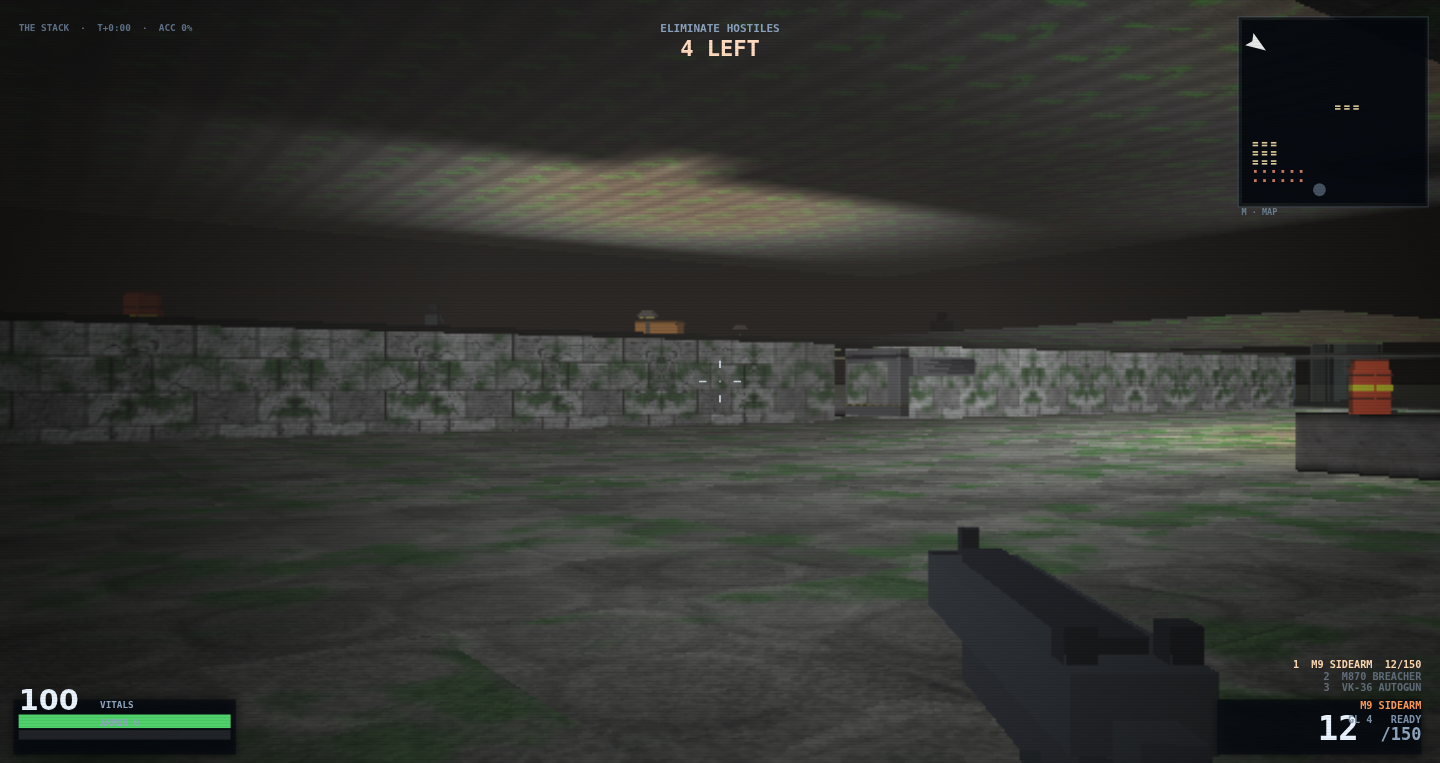
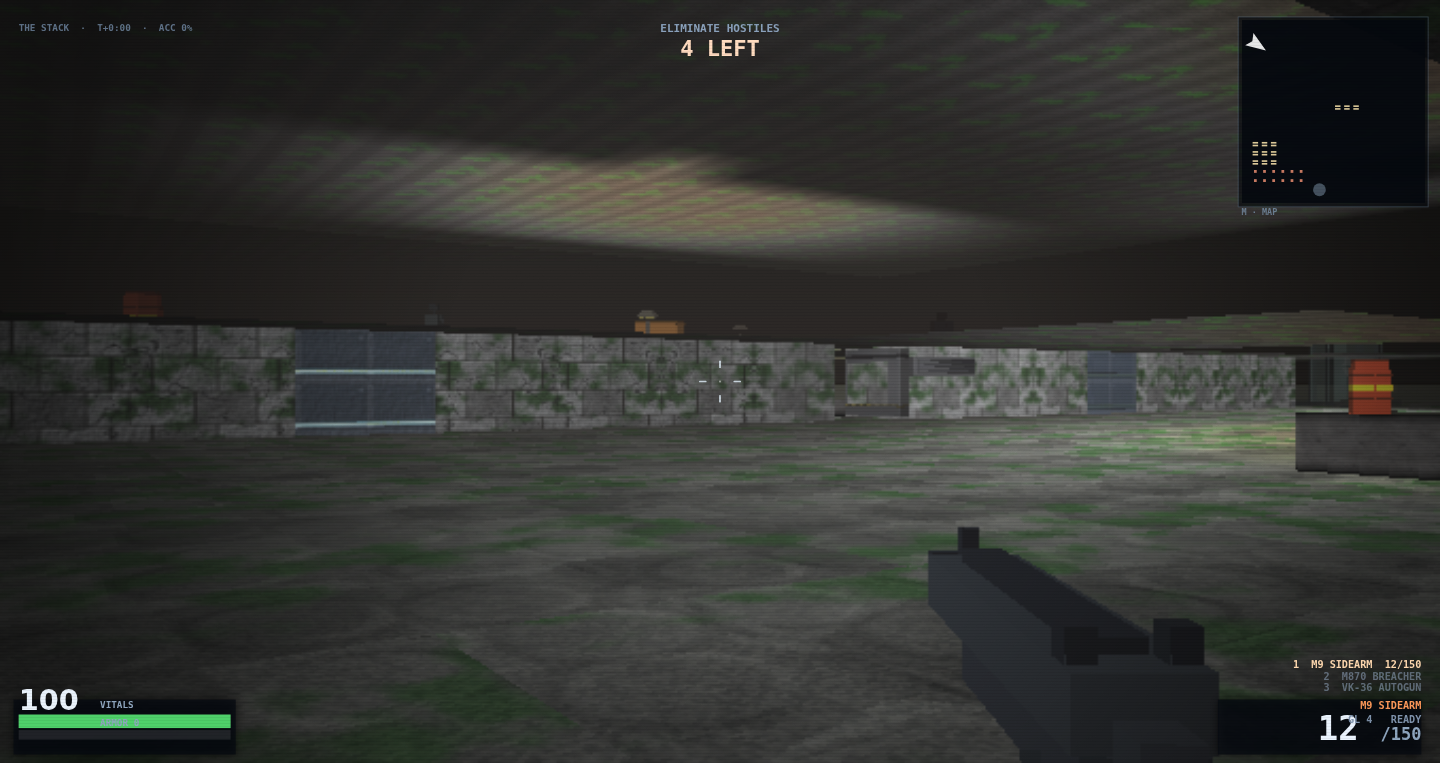
docs: THE STACK's README frame is re-drawn from the page that ships it (#388)
The row said these bytes were stale by #408 and that the next take had to be a
capture. It was right, and the blocker it named has cleared: the deployed page
serves main byte for byte, so the frame was drawn from that page instead of
re-labelled from a caption.

What a player sees differently: the lamp one cell inside THE STACK's room keeps
part of the light it used to over-spill (#408), so the room reads a hair dimmer
and flatter - mean luma 50.60 -> 50.14 - and one panel of the TECH wall draws in
blue TECH where the previous take's deal drew mossy stone. Same room, same
geometry, same 4 hostiles on the HUD.

The caption now claims one thing instead of a build-identity sentence that has
arrived false four cycles running: these pixels came off the page that serves
main at build cd191ca, by the route in docs/screens/provenance.json. Nothing
here states what any later tree's js/ blobs hash to. The deal moved too
(DEV.layoutSig 3233039185 on both runs, against that take's 2733654509) and is
recorded as this run's deal rather than re-run until the old number returns -
that is #420's gap, not this row's.

Validation: node tools/recap.js check RECAP 0 FAILURE(S) of 39 rows exit 0;
node tools/smoke.js and VERT=1 node tools/smoke.js both SMOKE PASSED exit 0;
python3 tools/check_identity.py verified. No refs.lock row re-keyed, no
threshold or gate moved.

Changed region(s): [[0.1875, 0.422, 0.3125, 0.5727], [0.75, 0.4522, 0.8125, 0.5426]]

diff --git a/README.md b/README.md
@@ -51,7 +51,7 @@ PR that changes the picture. `node tools/recap.js check` decodes these files and
 quoted below against them, so a caption cannot drift from its image. What *changed* between two
 recaptures is a question for `CHANGELOG.md` and the PR that moved it — it is not kept here.
 
-The six frames decode to **63.44 / 20.87 / 63.06 / 47.81 / 68.50 / 50.60** mean luma
+The six frames decode to **63.44 / 20.87 / 63.06 / 47.81 / 68.50 / 50.14** mean luma
 (`0.2126 R + 0.7152 G + 0.0722 B`, the rule `DEV.lum` uses), in the order they appear below.
 
 All six come from the **deployed build** at `?dev=1&seed=60`, with the clock frozen, vitals pinned at
@@ -64,40 +64,38 @@ by a **code** marker rather than a prose one: `authorVolume.toString()` contains
 shipped statements, and both still read on the deployed page. That pair is the identity of the
 five level-0 frames, taken while the deployed build *was* **`ce9d39d`**; the page has moved past that build
 since, and those five are stale by exactly that much. **One frame is newer than the other five.**
-`level3-stack.png` was drawn by the build **`ed5faf4`** (#388), and the instrument is the
-URL itself: headless Chromium opened the deployed page at a 1440 × 763 viewport and drove the dev hooks
-there, instead of rendering a checkout over loopback and arguing from md5. The bytes were read too, and
-they are recorded as a property of the **capture**, never of the tree you are reading this in: the page
-that served this frame ran `index.html` `44b7f0ca` over `js/40_render.js` `7942de4b`, `js/90_dev.js`
-`c36909c9`, `js/00_core.js` `ac12ee35`, `js/13_mesh.js` `f222d5ec`, `js/20_level.js` `9b24d5c4` and
-`js/10_assets.js` `3f00716c`. **Nothing in this row claims the merged tree's `js/` blobs are
-md5-identical to the served page's.** A docs-only PR ships whatever `main`'s renderer is at merge time,
-so such a sentence is false from the moment any `js/` file lands, and it has been false on arrival three
-cycles running. What is claimed instead is measured on both trees. This branch merges
-`main` at **`b85a671`**, and its one `js/` difference from the capture build is `js/20_level.js`
-`9b24d5c4` → `deb7e867` - #353's overlook pairing pass; `index.html` and the other ten blobs are
-identical on both sides. That pass cannot reach this seat: `LEVELS[3].authored === true`, so `genLevel`
-returns at the `buildAuthored` branch before the pairing pass and before `authorOverlooked`, and
-`overlookPairs` is filled only inside `authorVolume`. The measurement agrees with the code - at this
-caption's own seat `SEAT=1.5,2.5,0.6 node tools/view.js scene 3` prints framebuffer md5
-`340f2e85989a19ea34a908dab8eefb05` at mean 49.5 on this branch's `js/`, on `main`'s `js/`, and again on a
-second untouched run; `FP_DEALT=1 FP_DEALT1=3 node tools/view.js flatparity` prints dealt level 3
-`4b644b164e5b63b09fc69d5fc3256971`, mean 37.2, off-datum 134/256 on both trees, which is the value
-`tools/refs.lock` carries at `main`. A `cz`-only pass on *generated* levels does not reach the
-hand-authored finale, so the picture beside this sentence is the one the build at `b85a671` draws and
-this pass re-labelled rather than re-rendered. (Read at the merge, the deployed page serves this tree's
-twelve files byte for byte - an observation about a few minutes of this afternoon, and precisely not the
-basis of anything here; making that basis a gate instead of a sentence is #395's.) **The same measurement
-now says the next take of this row is a capture rather than a caption.** `main` moved again while this
-sentence was being written - `cd191ca`, #408 scaling an authored lamp's pool to the plan it stands in -
-and that term *does* reach this seat: the identical harness and seat with `main`'s `js/` prints
-framebuffer md5 `1cf43eac4ac2af7f6f1dac2a7f96ab35` at mean **48.9**, against the
-`340f2e85989a19ea34a908dab8eefb05` at 49.5 this branch's `js/` prints in the same minute. So the bytes
-embedded here are stale by #408 alone - a lamp one cell inside the room giving back some of the light it
-was over-spilling, which is most of what this frame's brightest patch is made of - and no sentence about
-md5s, honest or not, can cover that.
-That take had to re-render rather than re-label, because the renderer #407 put on `main` draws this seat
-differently: #407 let a body or a prop ten metres out keep the lamp field of the cell it stands in instead
+`level3-stack.png` was drawn by the build **`cd191ca`** (#388), and the instrument is the URL
+itself: headless Chromium opened the deployed page at a 1440 × 763 viewport and drove the dev hooks there,
+instead of rendering a checkout over loopback and arguing from md5. The bytes of the page that served it
+are recorded as a property of the **capture**, never of the tree you are reading this in: that page ran
+`index.html` `44b7f0ca` over `js/40_render.js` `7942de4b`, `js/90_dev.js` `c36909c9`, `js/00_core.js`
+`ac12ee35`, `js/13_mesh.js` `f222d5ec`, `js/20_level.js` `bcf4ad4f` and `js/10_assets.js` `3f00716c`.
+Nothing in this row states what the blobs of any later tree hash to — a docs-only PR ships whatever
+`main`'s renderer is at merge time, and a sentence of that shape has arrived false four cycles running,
+each time costing this row a re-take. The claim is one line instead: **these pixels were drawn by the page
+that serves `main`**, at build `cd191ca`, by the route written into `docs/screens/provenance.json`, and
+that route can be run again against the same URL by anyone who wants to check it.
+
+One figure needs no browser. At this caption's own seat `SEAT=1.5,2.5,0.6 node tools/view.js scene 3`
+renders **48.9** mean on this branch's `js/`, where the build these bytes replaced renders 49.5 — that is
+#408, an authored lamp's pool scaled to the plan it stands in, reaching a hand-authored seat, and the frame
+embedded here comes from the page that already has it. So the picture moved: mean 50.60 → **50.14**, thirds
+41.82 / 59.19 / 50.82 → **41.16 / 58.48 / 50.83**, channels 49.8 / 51.1 / 47.7 → **49.2 / 50.7 / 47.5**,
+still not one row of 763 averaging under luma 24. Against the bytes it replaces, 67,001 of 1,098,720
+pixels move by more than 2 luma — 6.10 %, mean |delta| 11.58 over those pixels, worst 111 — spread across
+the frame rather than concentrated in one bright patch, and **two** things move them. One is #408's lamp
+one cell inside the room, giving back part of the light it was over-spilling. The other is this run's
+deal: `DEV.layoutSig()` read **3233039185** on both runs of the route here, where the row this take
+replaces carried 2733654509, and the difference is visible rather than argued — one panel of the `TECH`
+wall reads blue `TECH` in this frame where that take's deal drew mossy stone, which is `pickWallTex`
+drawing from a different point in the seeded stream. That is the finding two paragraphs below keeps, and
+#420's gap rather than this row's. A single page capture cannot separate the two causes and this row does
+not pretend to; what it can state is what the route itself costs, because that is the floor every number
+above is read against — two untouched runs of the route at this build differ in 3,193 of 1,098,720 px
+(0.29 %), by at most 6 in one channel, and both read the same layout.
+The take before this one had to re-render rather than re-label, because the renderer #407 put on `main`
+draws this seat differently, and the account that follows is *that* take's, kept because it names the term
+and the noise floor rather than because its bytes are still here: #407 let a body or a prop ten metres out keep the lamp field of the cell it stands in instead
 of paying `exp(-d × 0.14)` of it, so the things standing in this room read brighter than they did in the
 frame beside this sentence. That term is read on the deployed page rather than inferred from a changelog -
 `DEV.set('bodydist', 0)` between the route and the shutter, after the frame was already frozen, brings
@@ -111,8 +109,8 @@ the doorway lamp one cell east out of the wall jamb, #375 cancelled a lamp's bor
 ceiling past the level's edge - in three takes, the last of them landed while this frame was being taken,
 #373 turned props into shaded solids, #403 mounted fixtures on walls, #400 set them back off the wall face
 so they keep a shape at an angle, #379 replaced bloom's flat gain over every mid-bright pixel with a bright
-pass and one shouldered black-point lift on the room, and #407 is the one that moved these bytes. Against
-the frame it replaces this one decodes **50.50 → 50.60** by thirds **41.82 / 58.88 / 50.83 → 41.82 /
+pass and one shouldered black-point lift on the room, and #407 is the term that moved *those* bytes.
+Against the frame that take replaced, it decodes **50.50 → 50.60** by thirds **41.82 / 58.88 / 50.83 → 41.82 /
 59.19 / 50.82** (`tools/recap.js`'s own band means, which are what the tool prints and gates against, not
 a hand-taken third). 11,712 of its 1,098,720 pixels move by more than 2 luma - 1,648 / 8,947 / 1,117 by
 thirds, worst 73.2, mean |delta| over those pixels 10.89 - and 233 of them move by more than 50, all of
@@ -123,14 +121,16 @@ noise, and the one place it lands on geometry rather than on a body is rows 300-
 y 340-422, is 83.2 in *both* frames, as is the streaked 4.00 plane at rows 140-180, 44.7, and the lit
 floor at rows 400-600 reads 64.6 in both. So the wall did not move and neither did the floor under it;
 what moved is how much of a room's light something ten metres away is allowed to keep, and that is a
-renderer term and not a deal term - `DEV.layoutSig()` reads the same 2733654509 on both sides and the
+renderer term and not a deal term - that take read the same 2733654509 on both sides and the
 row-mean thirds move 0.00 / -0.31 / 0.00. Frame channels read 49.6 / 51.1 / 47.7 there and 49.8 / 51.1 /
 47.7 here, so the picture is the same colour a hair brighter, not a different one. It is stored as colour type 2 (truecolour, no
 alpha) like the other five; a capture that arrives as RGBA has to be put through `tools/png_rgb.js`
 first, because the decoder in `tools/recap.js` reads an alpha PNG's channels in the wrong order (#394).
-Its `DEV.layoutSig()` read **2733654509** at that `seed=60`, and at this head all three runs of the
-documented route read that same number - the two untouched ones and the `bodydist` A/B - so these pixels
-are re-takeable on the build that ships. That was not true of
+Its `DEV.layoutSig()` read **2733654509** at that `seed=60` on all three of that take's runs. This take
+reads **3233039185**, on both of its runs and at the same `seed=60` - so a signature reproduces at a
+given build and does not travel between builds, which is the whole reason the number is printed instead of
+assumed. What those bytes re-takeable on the build that ships meant was: that build's runs agreed with
+each other. That was true of
 the build before it, and the reason is worth keeping: the same route against the previous deployed build
 read **3233039185** twice and, issued several seconds later than the route, a fourth value (1900969947),
 and calling `startLevel(3, true)` twice inside one already-open page read 1730990788 and then 1523817166.
@@ -141,7 +141,8 @@ unchanged - this level's floors are written, not rolled - and what moves between
 half of the hash, the `pickWallTex` panel choices, which #400's fixture placement draws from a different
 point in the seeded stream - so a run that lands elsewhere shows the same room and the same geometry with
 different wall panels, which is what the x 660-1295 × y 340-422 band looked like in the last re-take of this
-row, and is why that band is quoted twice here: 83.2 in both frames this time, and the deal did not move.
+row, and is why that band is quoted at both takes here: 83.2 across the previous take's two runs, whose
+deal did not move, and 81.9 in these bytes, whose deal did - the same room, one different wall panel.
 The corollary is the honest limit of this frame: the *build* it came from is the capture's, recorded
 above and in `docs/screens/provenance.json`, and the md5s above prove only that capture; the deal
 reproduced at this head, but nothing in the route *pins* it - two runs agreeing is an
@@ -278,12 +279,12 @@ is drawn by the build that stands it off (`FIX_DEP` in `js/20_level.js`, the box
 both read out of the page that served this capture, which reports `DECOR` at 14) — and the whole
 picture is flatter than its predecessor: the flat bloom gain that
 used to sit over every mid-bright pixel is gone and a black-point lift is on the room instead (#379), so
-the lit patches read dimmer, the dark ones lift, and the mean lands at 50.60 against 47.77. One term in
-this frame is newer than that sentence: the far ceiling above the `TECH` wall's top edge sits in a band of
-rows 300-330 reading **38.8** mean, where #375's third take stopped a ray that leaves the level paying a
-tall ceiling's bounce light - and the frame two builds earlier reads 38.2 there, so the 0.6 difference is
-#407 giving the bodies and props out in that room their cell's light, not that cancellation arriving. The
-streaked 4.00 plane two hundred rows higher reads 44.7 in both. Authoring it by hand removes the old excuse — a level that
+the lit patches read dimmer, the dark ones lift, and the mean lands at 50.14 against 47.77. One band in
+this frame is newer than that sentence: the far ceiling above the `TECH` wall's top edge sits at rows
+300-330 reading **38.3** mean, where #375's third take stopped a ray that leaves the level paying a
+tall ceiling's bounce light - and the frame it replaces reads 38.8 there, so the 0.5 difference is this
+take's two terms, #408's lamp pool and this run's deal, and not that cancellation arriving. The
+streaked 4.00 plane two hundred rows higher reads 43.8 here against 44.7 there. Authoring it by hand removes the old excuse — a level that
 reads badly can no longer be blamed on the seed stream, because this plan is written cell by cell over a
 20 × 20 grid.
 
